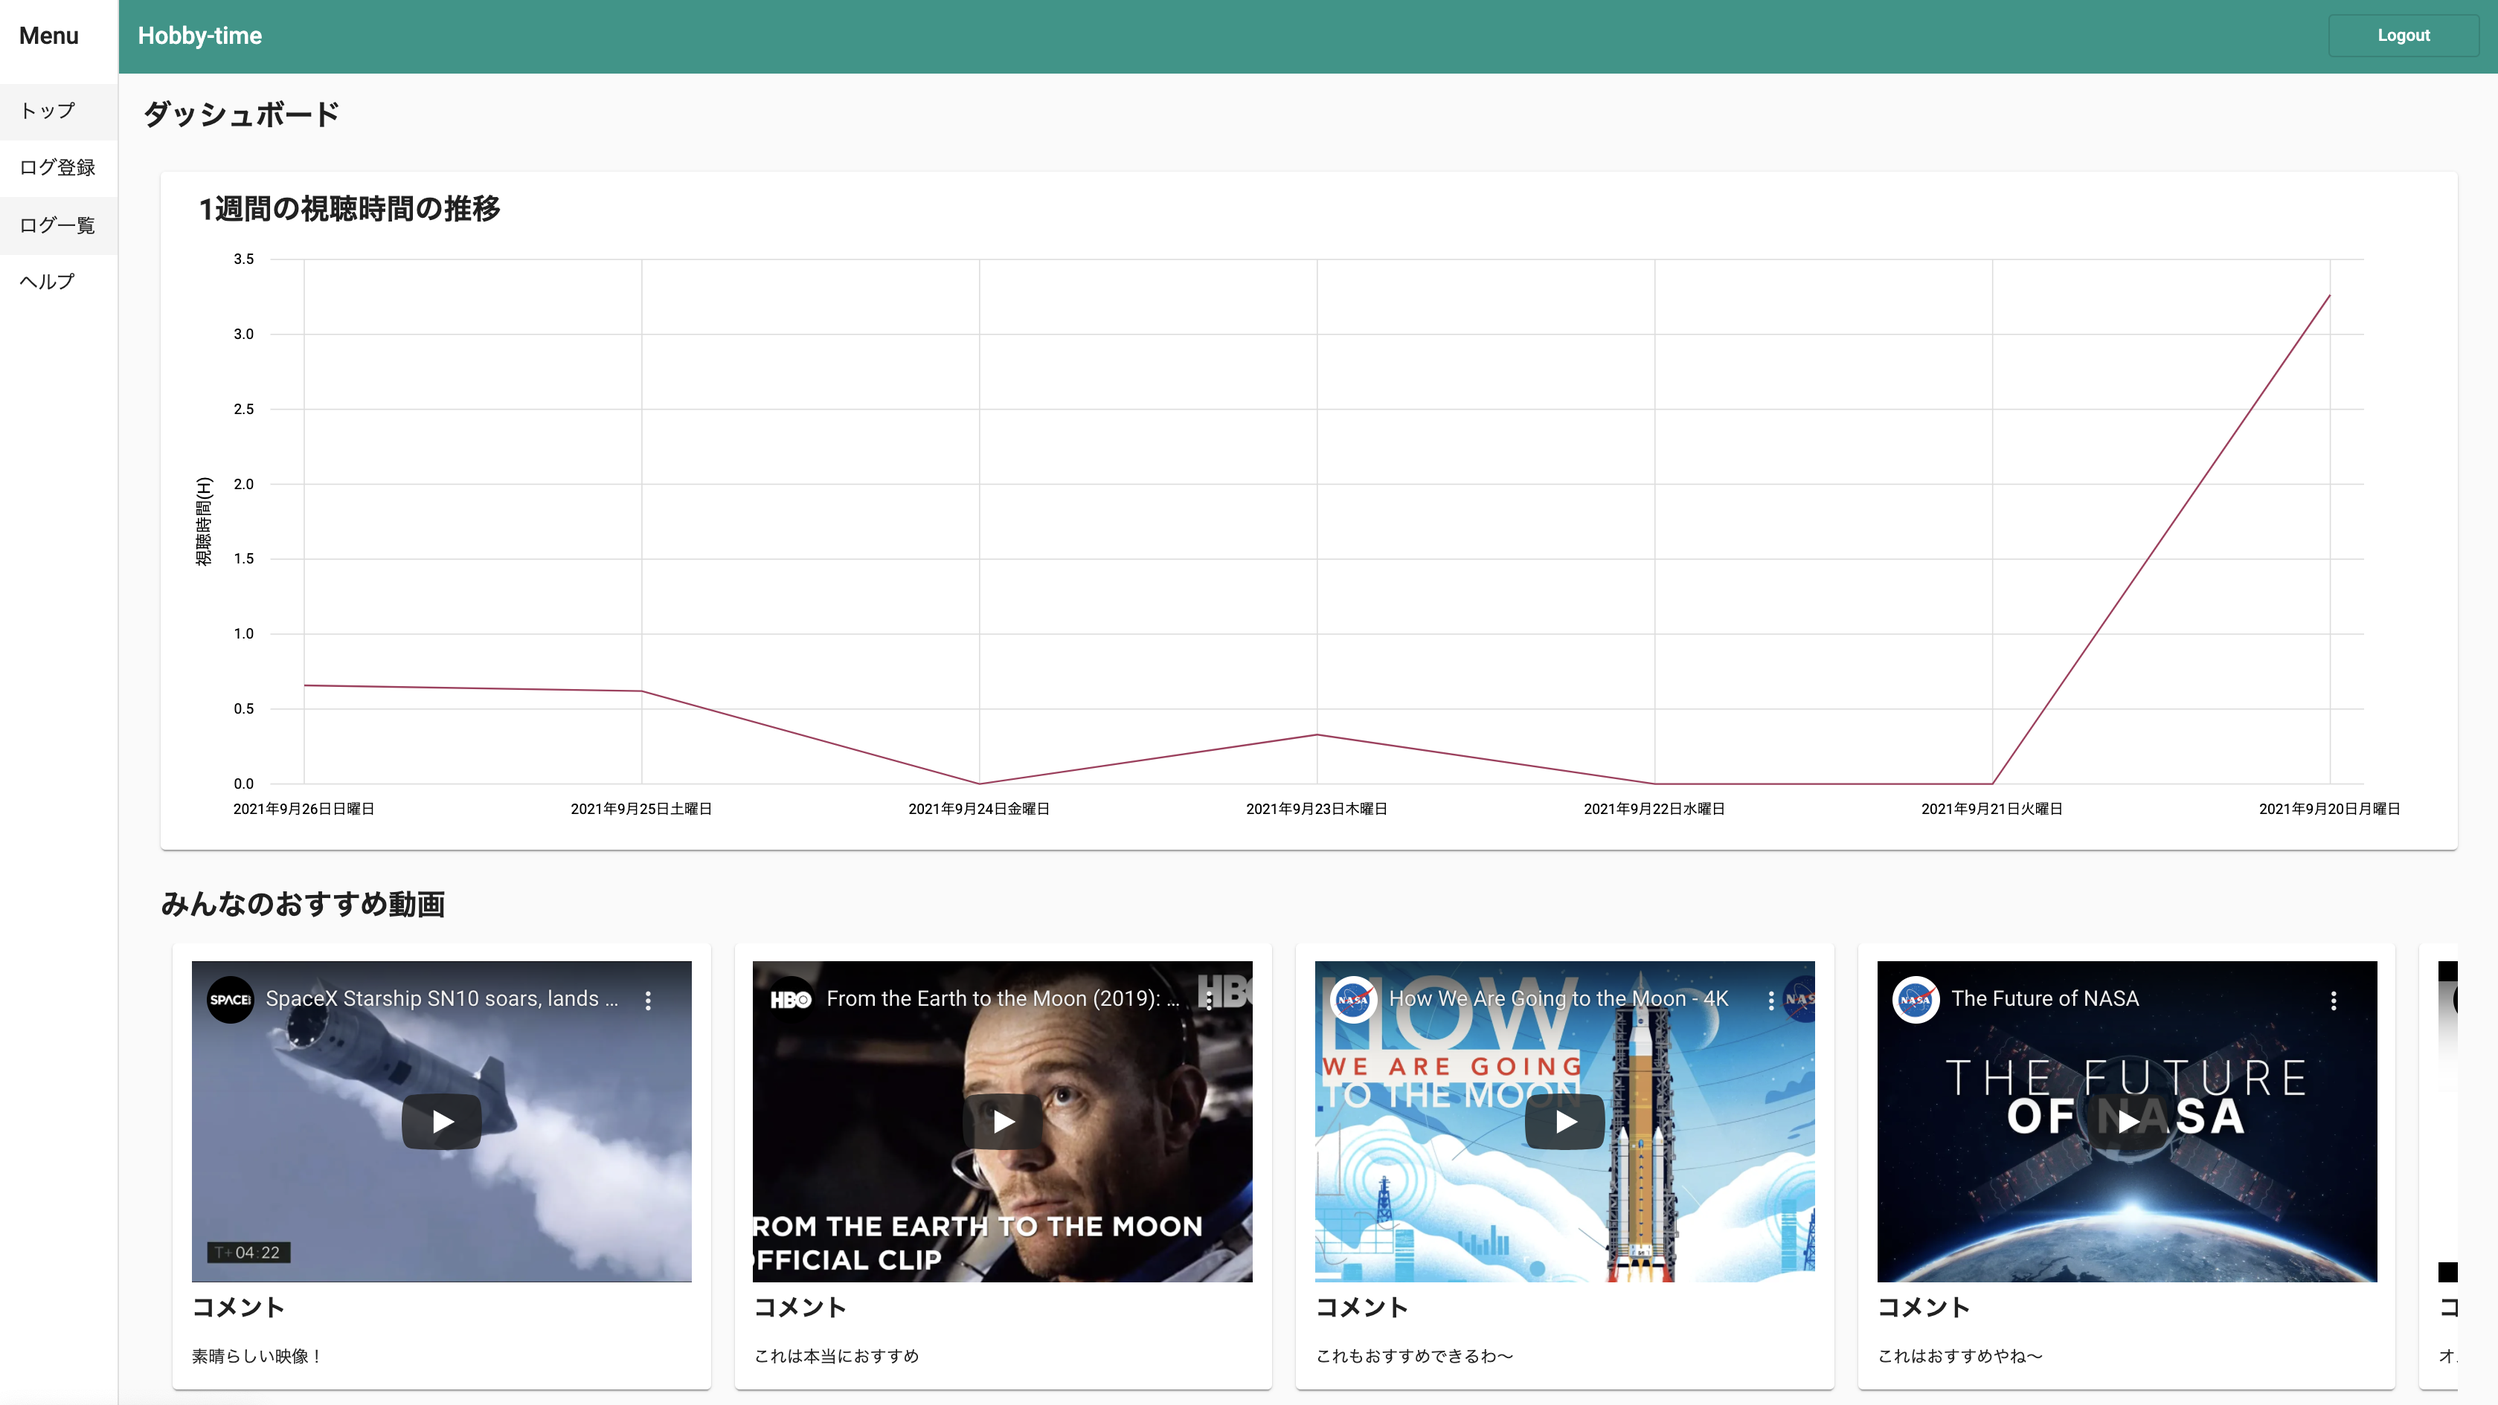
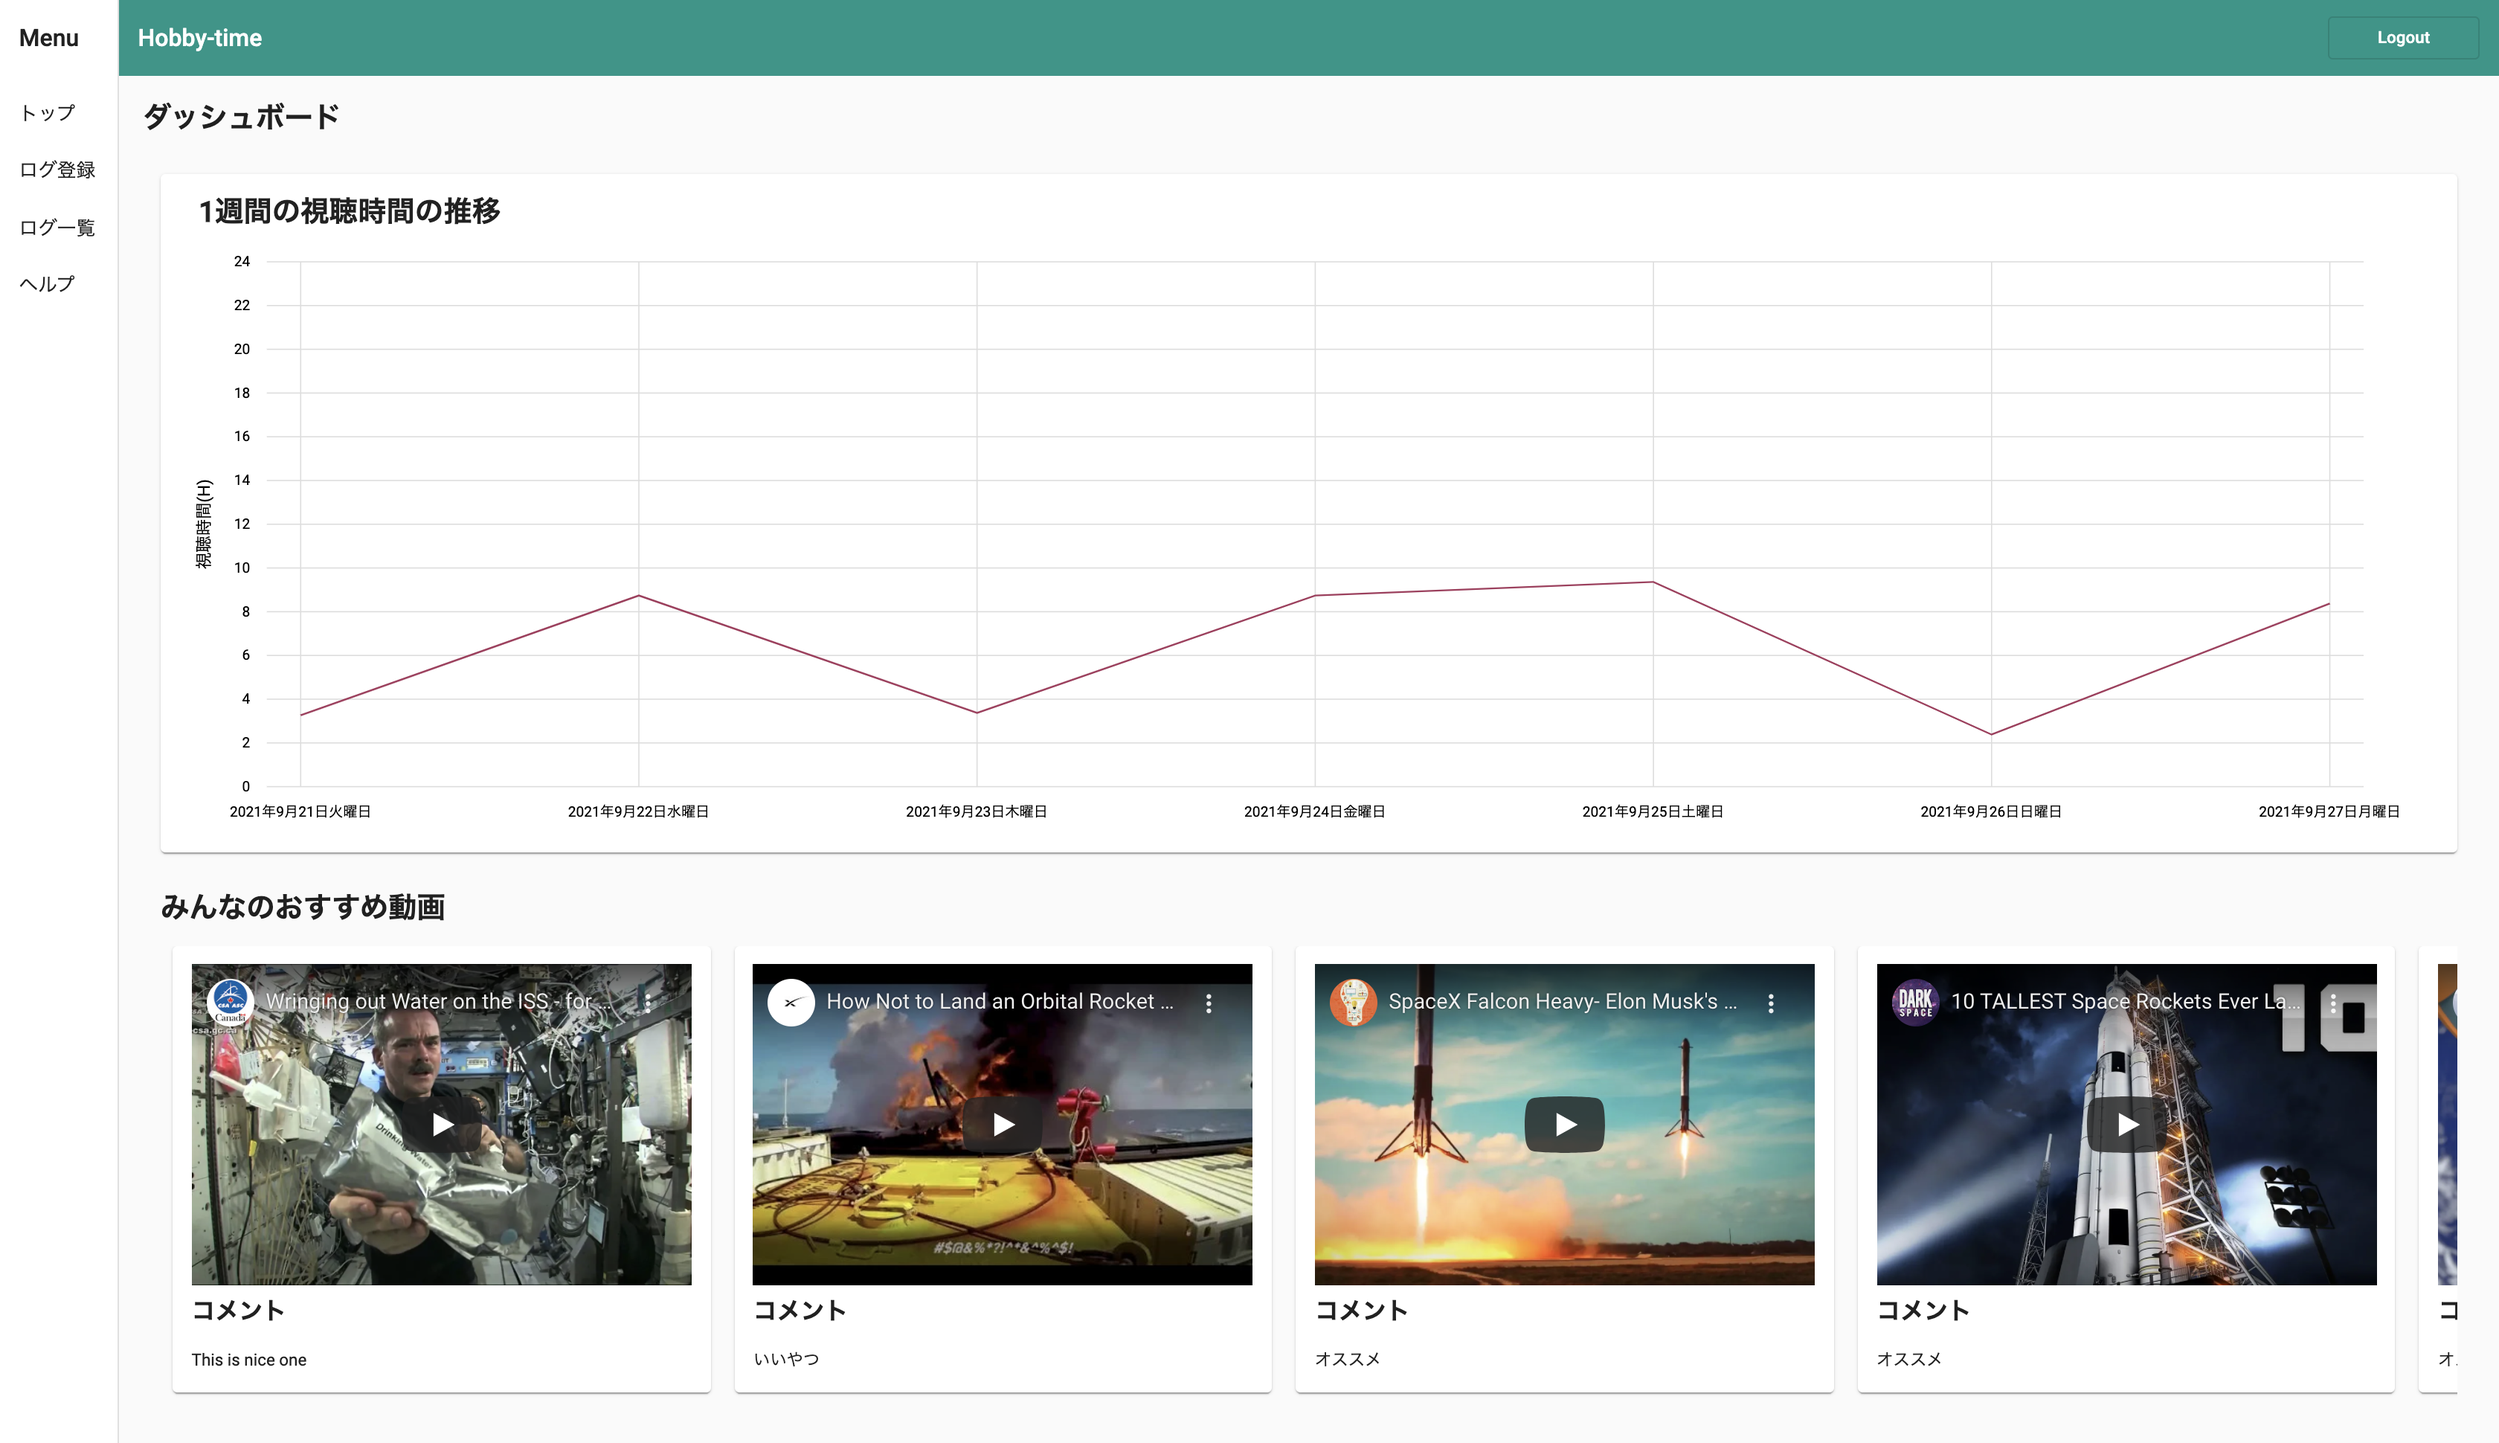
スタイルや表示の微修正

diff --git a/frontend/angular-app/src/app/components/dashboard/logic/log-chart.logic.ts b/frontend/angular-app/src/app/components/dashboard/logic/log-chart.logic.ts
@@ -18,10 +18,10 @@ export class LogChartLogic {
   public get() {
     let today = new Date()
     let videoLogs: any[] = [];
-    for (let i = 0; i < 7; i++) {
+    for (let i = 6; i >= 0; i--) {
       videoLogs.push(
         {
-          name: new Date(today.getFullYear(), today.getMonth(), today.getDate() - i).toLocaleDateString('jn-JP', { weekday: 'long', year: 'numeric', month: 'long', day: 'numeric' }),
+          name: new Date(today.getFullYear(), today.getMonth(), today.getDate() - i).toLocaleDateString('jp-JP', { weekday: 'long', year: 'numeric', month: 'long', day: 'numeric' }),
           value: 0}
         )
     }
@@ -29,7 +29,7 @@ export class LogChartLogic {
     this.apiService.getUserVideoLogs().subscribe(result => {
       let logs = result.body.data
       for (let i = 0; i < logs.length; i++) {
-        let day =new Date(logs[i].created_at).toLocaleDateString('jn-JP', { weekday: 'long', year: 'numeric', month: 'long', day: 'numeric' })
+        let day =new Date(logs[i].created_at).toLocaleDateString('jp-JP', { weekday: 'long', year: 'numeric', month: 'long', day: 'numeric' })
         videoLogs.forEach(date => {
           if(date.name == day){date.value += logs[i].youtube_duration/3600}
         })

diff --git a/frontend/angular-app/src/app/components/dashboard/dashboard.component.ts b/frontend/angular-app/src/app/components/dashboard/dashboard.component.ts
@@ -25,10 +25,9 @@ export class DashboardComponent implements OnInit, OnDestroy {
   showYAxisLabel: boolean = true;
   showXAxisLabel: boolean = false;
   yAxisLabel: string = '視聴時間(H)';
+  yScaleMin: number = 0;
+  yScaleMax: number = 24;
   timeline: boolean = true;
-  colorScheme   = {
-    domain: ['#5AA454', '#E44D25', '#CFC0BB', '#7aa3e5', '#a8385d', '#aae3f5']
-  };
 
   constructor(
     private videoLogService: VideoLogService,
@@ -39,7 +38,7 @@ export class DashboardComponent implements OnInit, OnDestroy {
     this.logChartLogic.data$.subscribe(
       result => {
         this.chartData = [
-          {name: "視聴時間(H)", series: result.reverse()}
+          {name: "視聴時間(H)", series: result}
         ]
       }
     )

diff --git a/frontend/angular-app/src/app/components/help/help.component.html b/frontend/angular-app/src/app/components/help/help.component.html
@@ -84,7 +84,7 @@
         </li>
       </ul>
       <h2>が表示されています。</h2>
-      <h2>その動画おすすめしている場合は左上に「オススメ!」の表示が出ます</h2>
+      <h2>その動画をおすすめしている場合は左上に「オススメ!」の表示が出ます</h2>
     </div>
   </mat-card-content>
 </mat-card>

diff --git a/frontend/angular-app/src/app/components/dashboard/dashboard.component.html b/frontend/angular-app/src/app/components/dashboard/dashboard.component.html
@@ -21,6 +21,8 @@
             [yAxisLabel]="yAxisLabel"
             [timeline]="timeline"
             [roundDomains]="roundDomains"
+            [yScaleMin]="yScaleMin"
+            [yScaleMax]="yScaleMax"
             [results]="chartData"
             >
           </ngx-charts-line-chart>

diff --git a/frontend/angular-app/src/app/components/account/login-register/login-register.component.scss b/frontend/angular-app/src/app/components/account/login-register/login-register.component.scss
@@ -5,7 +5,7 @@
 }
 
 .landing-page {
-  margin: 12px;
+  margin: 20px;
   border-radius: 10px;
   padding: 60px 0;
   background-image: url(/assets/images/forest_background.jpg);

diff --git a/frontend/angular-app/src/app/components/log-list/log-list.component.scss b/frontend/angular-app/src/app/components/log-list/log-list.component.scss
@@ -4,7 +4,7 @@
   h1 {
     font-weight: bolder;
   }
-  
+
   .video-logs-header{
     display: flex;
 

diff --git a/backend/app/logic/video_logs_logic/create.rb b/backend/app/logic/video_logs_logic/create.rb
@@ -17,7 +17,6 @@ module VideoLogsLogic
       video_log = @current_user.video_logs.build(params)
       # youtube動画のid取得
       video_log.setting_youtube_id(params[:youtube_url])
-      # video_id = video_log.youtube_url.sub('https://www.youtube.com/watch?v=', '').sub('https://youtu.be/', '').split('&')[0]
       # youtube APIの呼び出しとレスポンスの代入
       response = @service.list_videos('snippet, contentDetails', id: video_log.youtube_id)
 
